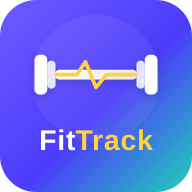
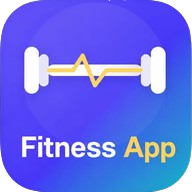
fit track para fitness app

diff --git a/back end fitnessapp/src/controllers/authController.js b/back end fitnessapp/src/controllers/authController.js
@@ -9,6 +9,23 @@ import {
   sendSessionReplacedEmail,
 } from '../services/authEmailService.js';
 
+// ── Limitação de tentativas de login (em memória — não usa o banco) ──────────
+// OBS: como fica só na memória do processo, o contador zera se o servidor
+// reiniciar e não é compartilhado entre múltiplas instâncias/réplicas.
+const MAX_LOGIN_ATTEMPTS  = 5;        // tentativas erradas permitidas
+const LOCKOUT_MINUTES     = 15;       // duração do bloqueio temporário
+const LOCKOUT_DURATION_MS = LOCKOUT_MINUTES * 60 * 1000;
+
+const loginAttempts = new Map(); // email → { count: number, lockedUntil: number|null }
+
+function getAttemptState(email) {
+  return loginAttempts.get(email) || { count: 0, lockedUntil: null };
+}
+
+function isLocked(state) {
+  return !!state.lockedUntil && state.lockedUntil > Date.now();
+}
+
 // ── POST /auth/register ───────────────────────────────────────────────────────
 export const register = async (c) => {
   try {
@@ -176,8 +193,51 @@ export const login = async (c) => {
   try {
     const { email, password } = await c.req.json();
 
+    if (!email || !password) {
+      return c.json({ error: 'E-mail e senha são obrigatórios.' }, 400);
+    }
+
+    const state = getAttemptState(email);
+
+    // Já está bloqueado por excesso de tentativas → nem chega a validar a senha
+    if (isLocked(state)) {
+      return c.json({
+        error: `Muitas tentativas de login incorretas. Tente novamente em ${minutesUntil(state.lockedUntil)} minuto(s).`,
+        code: 'ACCOUNT_LOCKED',
+        lockout_until: new Date(state.lockedUntil).toISOString(),
+      }, 429);
+    }
+
     const { data, error } = await supabase.auth.signInWithPassword({ email, password });
-    if (error) return c.json({ error: 'E-mail ou senha incorretos.' }, 400);
+
+    if (error) {
+      // Senha/e-mail incorretos: incrementa o contador em memória
+      state.count += 1;
+
+      if (state.count >= MAX_LOGIN_ATTEMPTS) {
+        state.lockedUntil = Date.now() + LOCKOUT_DURATION_MS;
+        state.count = 0;
+        loginAttempts.set(email, state);
+
+        return c.json({
+          error: `Muitas tentativas de login incorretas. Sua conta foi bloqueada temporariamente por ${LOCKOUT_MINUTES} minutos.`,
+          code: 'ACCOUNT_LOCKED',
+          lockout_until: new Date(state.lockedUntil).toISOString(),
+        }, 429);
+      }
+
+      loginAttempts.set(email, state);
+      const remaining = MAX_LOGIN_ATTEMPTS - state.count;
+
+      return c.json({
+        error: `E-mail ou senha incorretos. Você tem mais ${remaining} tentativa(s) antes do bloqueio temporário.`,
+        code: 'INVALID_CREDENTIALS',
+        attempts_remaining: remaining,
+      }, 400);
+    }
+
+    // Login bem-sucedido: zera o contador em memória
+    loginAttempts.delete(email);
 
     const user_id = data?.user?.id;
     if (!user_id) return c.json({ error: 'Erro ao gerar token.' }, 500);
@@ -225,6 +285,12 @@ export const login = async (c) => {
     return c.json({ error: err.message }, 500);
   }
 };
+
+// ── Utilitário: minutos restantes até o fim do bloqueio (arredondado p/ cima) ─
+function minutesUntil(timestampMs) {
+  const diffMs = timestampMs - Date.now();
+  return Math.max(1, Math.ceil(diffMs / 60000));
+}
 
 // ── GET /auth/validate ────────────────────────────────────────────────────────
 export const validate = (c) => {

diff --git a/front end react1/src/pages/Home/About.jsx b/front end react1/src/pages/Home/About.jsx
@@ -6,14 +6,14 @@ const About = () => (
     <div className="lg:w-[38%] md:w-full sm:w-full w-full h-auto relative overflow-hidden rounded-lg">
       <img
         src="https://images.unsplash.com/photo-1526314149856-d8cf115d62f1?q=80&w=1949&auto=format&fit=crop"
-        alt="Sobre o FitTrack"
+        alt="Sobre o Fitness App"
         className="w-full lg:h-[70vh] md:h-[68vh] sm:h-[60vh] h-[55vh] object-cover"
       />
     </div>
     <div className="lg:w-[50%] md:w-full sm:w-full w-full h-auto lg:text-start md:text-start sm:text-start text-center">
       <h6 className="text-lg font-medium text-gray-200 flex items-center lg:justify-start md:justify-start sm:justify-start justify-center gap-x-2 mb-3">
         <Dumbbell className="w-4 h-4 -rotate-45 text-[#5B4FFF]" />
-        Sobre o FitTrack
+        Sobre o Fitness App
       </h6>
 
       {/* ✅ Corrigido: text-xk → text-2xl */}
@@ -22,13 +22,13 @@ const About = () => (
       </h1>
 
       <p className="lg:text-base md:text-base sm:text-sm text-sm text-gray-500 font-medium mb-4 text-justify">
-        O FitTrack é um app de fitness pessoal gratuito e completo. Com ele você cria rotinas de treino personalizadas,
+        O Fitness App é um app de fitness pessoal gratuito e completo. Com ele você cria rotinas de treino personalizadas,
         acompanha seu progresso corporal ao longo do tempo, usa o cronômetro HIIT com alertas sonoros, consulta a biblioteca
         de exercícios com vídeos integrados e visualiza sua constância no calendário com heatmap estilo GitHub.
       </p>
       <p className="lg:text-base md:text-base sm:text-sm text-sm text-gray-500 font-medium mb-4 text-justify">
         Seus dados são armazenados com segurança via Supabase, com autenticação JWT e privacidade garantida.
-        Seja você iniciante ou avançado, o FitTrack tem as ferramentas para manter o foco e a constância.
+        Seja você iniciante ou avançado, o Fitness App tem as ferramentas para manter o foco e a constância.
       </p>
     </div>
   </div>

diff --git a/front end react1/src/components/FeedbackWidget/FeedbackWidget.jsx b/front end react1/src/components/FeedbackWidget/FeedbackWidget.jsx
@@ -153,7 +153,7 @@ export default function FeedbackWidget() {
           }}>
             <div>
               <p style={{ fontFamily: 'Syne, sans-serif', fontWeight: 700, fontSize: 15, color: '#f0f0f8' }}>
-                Avalie o FitTrack
+                Avalie o Fitness App
               </p>
               <p style={{ fontSize: 12, color: 'rgba(240,240,248,0.45)', marginTop: 2 }}>
                 Sua opinião nos ajuda a melhorar
@@ -177,7 +177,7 @@ export default function FeedbackWidget() {
                 <p style={{ fontSize: 32, marginBottom: 8 }}>✅</p>
                 <p style={{ fontSize: 14, color: '#f0f0f8', fontWeight: 600 }}>Você já enviou um feedback!</p>
                 <p style={{ fontSize: 12, color: 'rgba(240,240,248,0.45)', marginTop: 4 }}>
-                  Agradecemos por contribuir com o FitTrack.
+                  Agradecemos por contribuir com o Fitness App.
                 </p>
               </div>
 
@@ -216,7 +216,7 @@ export default function FeedbackWidget() {
                 {/* Estrelas */}
                 <div style={{ marginBottom: 14 }}>
                   <p style={{ fontSize: 12, color: 'rgba(240,240,248,0.55)', marginBottom: 8, fontWeight: 500 }}>
-                    Como você avalia o FitTrack?
+                    Como você avalia o Fitness App?
                   </p>
                   <div style={{ display: 'flex', gap: 4, alignItems: 'center' }}>
                     {[1, 2, 3, 4, 5].map((star) => (
@@ -246,7 +246,7 @@ export default function FeedbackWidget() {
                   <textarea
                     value={message}
                     onChange={(e) => setMessage(e.target.value)}
-                    placeholder="Conte sua experiência com o FitTrack..."
+                    placeholder="Conte sua experiência com o Fitness App..."
                     maxLength={1000}
                     rows={3}
                     style={{

diff --git a/front end react1/src/pages/Ranking/RankingPage.jsx b/front end react1/src/pages/Ranking/RankingPage.jsx
@@ -259,16 +259,16 @@ export default function RankingPage() {
 
         {/* Footer discreto */}
         <p className="text-center text-xs text-gray-700 mt-8">
-          Powered by <span className="text-indigo-600 font-semibold">FitTrack</span>
+          Powered by <span className="text-indigo-600 font-semibold">Fitness App</span>
         </p>
       </div>
 
       <ShareCardModal
         open={shareOpen}
         onClose={() => setShareOpen(false)}
-        fileName={`ranking-${slug}-fittrack.png`}
-        shareTitle={`Ranking ${academy.name} · FitTrack`}
-        shareText={`Confira o ranking de treinos da ${academy.name} no FitTrack!`}
+        fileName={`ranking-${slug}-fitness-app.png`}
+        shareTitle={`Ranking ${academy.name} · Fitness App`}
+        shareText={`Confira o ranking de treinos da ${academy.name} no Fitness App!`}
         renderCard={(cardRef) => (
           <RankingCard
             ref={cardRef}

diff --git a/front end react1/src/pages/Landing/LandingPage.jsx b/front end react1/src/pages/Landing/LandingPage.jsx
@@ -241,7 +241,7 @@ const LandingPage = () => {
             Tudo que você precisa<br />para evoluir
           </h2>
           <p className="mx-auto text-[16px]" style={{ color: 'rgba(240,240,248,.6)', maxWidth: 560 }}>
-            De rotinas personalizadas a heatmap de treinos — o FitTrack centraliza sua jornada fitness em um só lugar.
+            De rotinas personalizadas a heatmap de treinos — o Fitness App centraliza sua jornada fitness em um só lugar.
           </p>
         </div>
 
@@ -367,7 +367,7 @@ const LandingPage = () => {
             </span>
           ))}
         </div>
-        <div className="text-[12px]" style={{ color: 'rgba(240,240,248,.35)' }}>© 2025 FitTrack</div>
+        <div className="text-[12px]" style={{ color: 'rgba(240,240,248,.35)' }}>© 2025 Fitness App</div>
       </footer>
     </div>
   );

diff --git a/back end fitnessapp/index.js b/back end fitnessapp/index.js
@@ -11,7 +11,7 @@ import calendarRoutes    from './src/routes/calendarRoutes.js';
 import adminRoutes       from './src/routes/adminRoutes.js';
 import nutritionRoutes   from './src/routes/nutritionRoutes.js';
 import academyRoutes     from './src/routes/academyRoutes.js';
-import feedbackRoutes    from './src/routes/feedbackRoutes.js'; // ← NOVO
+import feedbackRoutes    from './src/routes/feedbackRoutes.js';
 
 import { startSchedulers } from './src/services/scheduler.js';
 
@@ -40,7 +40,7 @@ app.route('/progress',    progressRoutes);
 app.route('/calendar',    calendarRoutes);
 app.route('/admin',       adminRoutes);
 app.route('/nutrition',   nutritionRoutes);
-app.route('/feedback',    feedbackRoutes); // ← NOVO
+app.route('/feedback',    feedbackRoutes);
 
 app.route('/',            academyRoutes);
 

diff --git a/front end react1/index.html b/front end react1/index.html
@@ -10,14 +10,14 @@
     <meta name="mobile-web-app-capable" content="yes" />
     <meta name="apple-mobile-web-app-capable" content="yes" />
     <meta name="apple-mobile-web-app-status-bar-style" content="black-translucent" />
-    <meta name="apple-mobile-web-app-title" content="FitTrack" />
+    <meta name="apple-mobile-web-app-title" content="Fitness App" />
 
     <!-- Ícones -->
     <link rel="icon" type="image/svg+xml" href="/logo.svg" />
     <link rel="apple-touch-icon" href="/logo.svg" />
 
     <!-- SEO -->
-    <title>FitTrack — Seu app de fitness</title>
+    <title>Fitness App — Seu app de fitness</title>
     <meta name="description" content="Crie rotinas, acompanhe progresso e otimize sua nutrição." />
 
     <!-- Google Identity Services (para "Entrar com Google") -->

diff --git a/front end react1/src/pages/Home/Footer.jsx b/front end react1/src/pages/Home/Footer.jsx
@@ -55,7 +55,7 @@ const Footer = () => (
     </div>
 
     <div className="w-full flex flex-col items-center justify-between py-4 border-t border-gray-800">
-      <p className="text-sm text-gray-500">© 2025 FitTrack</p>
+      <p className="text-sm text-gray-500">© 2025 Fitness App</p>
       <div className="flex items-center justify-center gap-4 mt-2">
         <a href="https://github.com/JosePedro1" target="_blank" rel="noreferrer" className="text-gray-500 hover:text-gray-300 transition-colors"><Github className="w-4 h-4" /></a>
         <a href="https://www.instagram.com/fitness/" target="_blank" rel="noreferrer" className="text-gray-500 hover:text-gray-300 transition-colors"><Instagram className="w-4 h-4" /></a>

diff --git a/front end react1/src/components/InstallPWA/InstallPWA.jsx b/front end react1/src/components/InstallPWA/InstallPWA.jsx
@@ -150,13 +150,13 @@ export default function InstallPWA() {
         .pwa-ios-row svg { flex-shrink: 0; }
       `}</style>
 
-      <div className="pwa-banner" role="banner" aria-label="Instalar FitTrack">
+      <div className="pwa-banner" role="banner" aria-label="Instalar Fitness App">
         <div className="pwa-icon-wrap">
           <DumbbellIcon />
         </div>
 
         <div className="pwa-text">
-          <div className="pwa-title">FitTrack no seu celular</div>
+          <div className="pwa-title">Fitness App no seu celular</div>
           {isIOS ? (
             <div className="pwa-ios-row">
               Toque em <ShareIcon /> depois "Adicionar à Tela Inicial"

diff --git a/front end react1/src/pages/Routine/RoutinePage.jsx b/front end react1/src/pages/Routine/RoutinePage.jsx
@@ -305,9 +305,9 @@ const RoutinePage = () => {
           <ShareCardModal
             open={shareOpen}
             onClose={() => setShareOpen(false)}
-            fileName="minha-rotina-fittrack.png"
-            shareTitle="Minha rotina semanal no FitTrack"
-            shareText="Monta sua rotina de treino comigo no FitTrack 💪"
+            fileName="minha-rotina-fitness-app.png"
+            shareTitle="Minha rotina semanal no Fitness App"
+            shareText="Monta sua rotina de treino comigo no Fitness App 💪"
             renderCard={(cardRef) => (
               <RoutineInviteCard
                 ref={cardRef}

diff --git a/front end react1/src/components/WorkoutTimer/WorkoutBanner.jsx b/front end react1/src/components/WorkoutTimer/WorkoutBanner.jsx
@@ -149,9 +149,9 @@ const WorkoutBanner = () => {
           <ShareCardModal
             open={shareOpen}
             onClose={() => setShareOpen(false)}
-            fileName="meu-treino-fittrack.png"
-            shareTitle="Meu treino de hoje no FitTrack"
-            shareText="Treino de hoje batido no FitTrack"
+            fileName="meu-treino-fitness-app.png"
+            shareTitle="Meu treino de hoje no Fitness App"
+            shareText="Treino de hoje batido no Fitness App"
             renderCard={(cardRef) => (
               <WorkoutCompletedCard
                 ref={cardRef}

diff --git a/front end react1/src/components/ShareCard/ShareCardFrame.jsx b/front end react1/src/components/ShareCard/ShareCardFrame.jsx
@@ -2,7 +2,7 @@
  * ShareCardFrame.jsx
  * Moldura comum aos 3 cards de compartilhamento: formato 9:16 (ideal pra
  * Stories/WhatsApp Status), fundo em gradiente escuro consistente com o
- * resto do app, e rodapé de marca (FitTrack) — é o rodapé que transforma
+ * resto do app, e rodapé de marca (Fitness App) — é o rodapé que transforma
  * cada compartilhamento em divulgação do produto.
  *
  * Evitamos <img> de fontes externas (avatar do Supabase, logo remota) aqui
